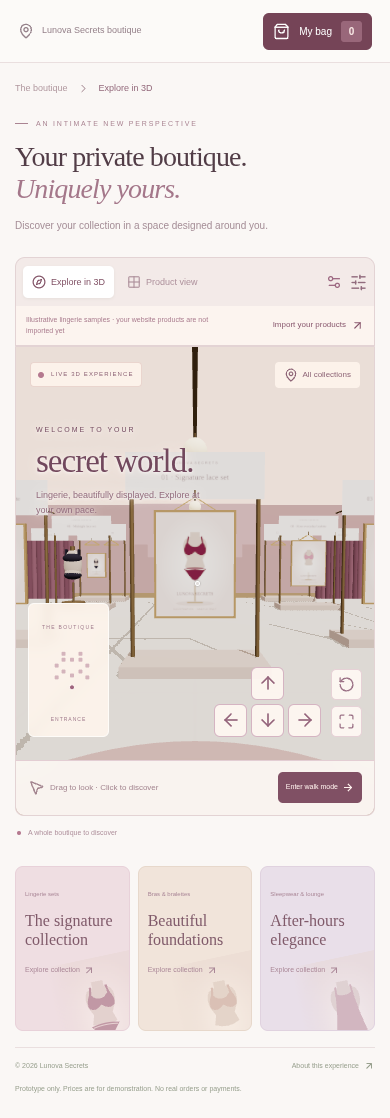
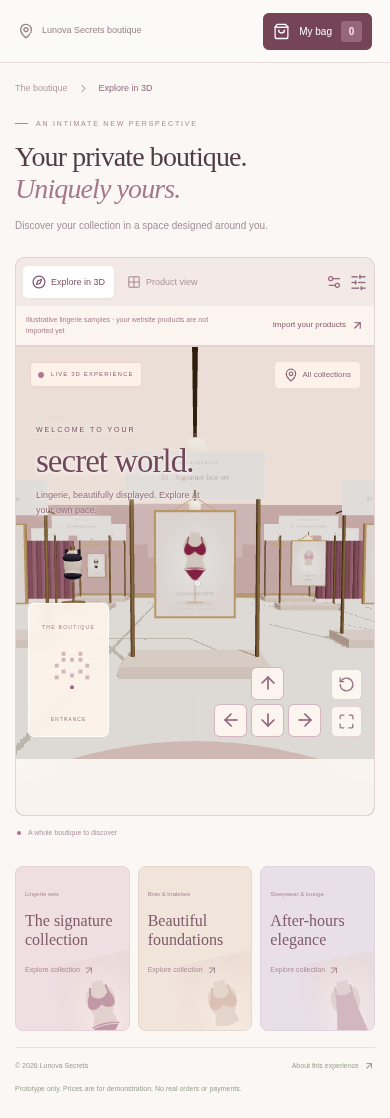
Keep boutique customization accessible on mobile

Changed region(s): [[0.7077, 0.6691, 0.9538, 0.7299]]

diff --git a/tests/browser/store.spec.js b/tests/browser/store.spec.js
@@ -68,6 +68,12 @@ test("mobile touch movement, graphics, search and responsive width", async ({
       () => document.documentElement.scrollWidth <= innerWidth,
     ),
   ).toBe(true);
+  await openEditor(page);
+  await page
+    .getByRole("button", { name: "Add a product", exact: true })
+    .click();
+  await expect(page.getByLabel("Product name", { exact: true })).toBeVisible();
+  await page.getByRole("button", { name: "Close dialog" }).click();
 });
 test("walking stops at the feature fixture and collection shortcuts are safe", async ({
   page,

diff --git a/src/App.jsx b/src/App.jsx
@@ -295,6 +295,7 @@ export default function App() {
             <div className="toolbar-actions">
               <button
                 className="settings-button editor-open-button"
+                aria-label="Customize"
                 onClick={() => setModal("editor")}
               >
                 <Settings2 size={16} />
